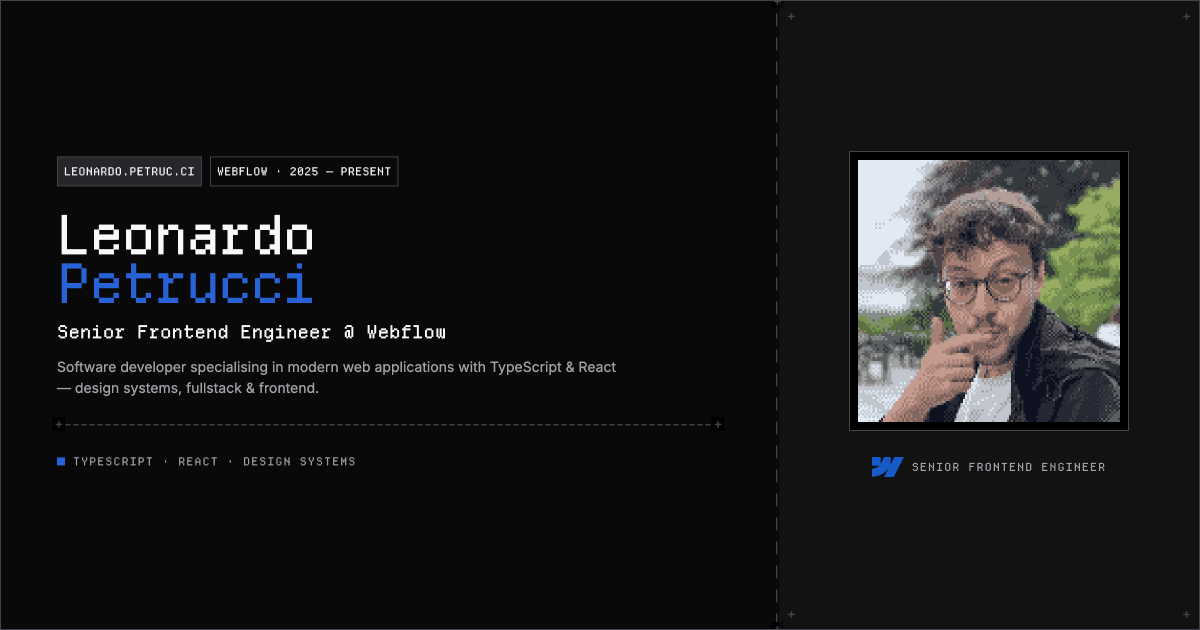
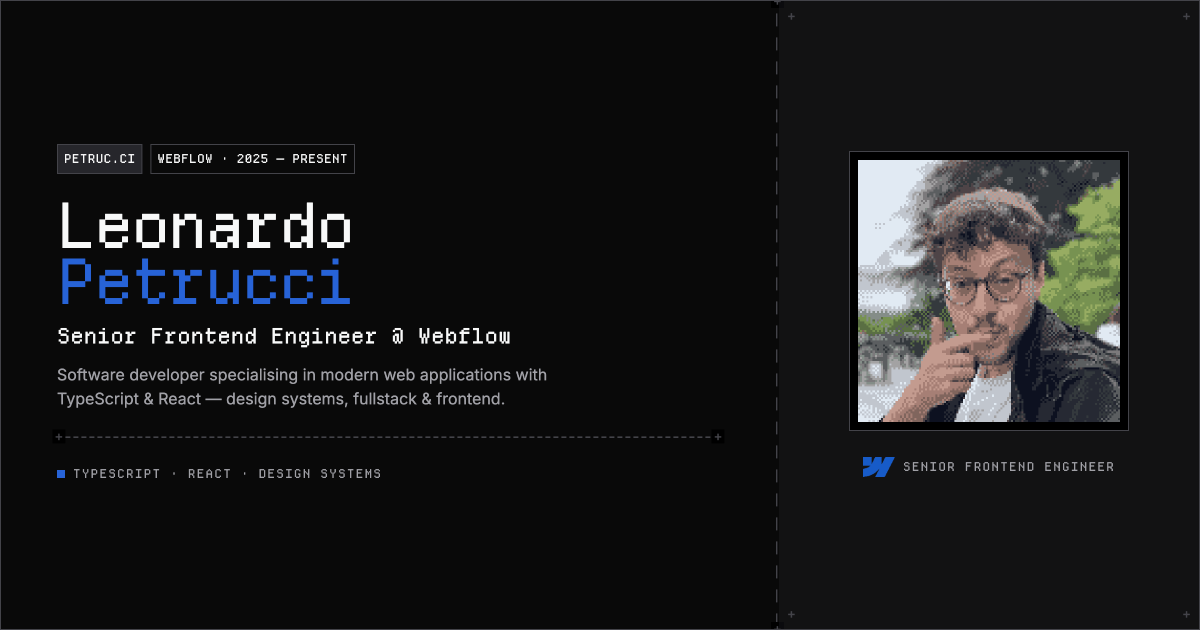
Update OpenGraph

diff --git a/src/routes/hero.tsx b/src/routes/hero.tsx
@@ -48,25 +48,25 @@ function RouteComponent() {
           <div className="flex-1 flex flex-col justify-center px-14 py-10 gap-6">
             {/* Top badge row */}
             <div className="flex items-center gap-2">
-              <Badge variant="default" className="text-[11px]">
+              <Badge variant="default" className="text-[12px]">
                 petruc.ci
               </Badge>
-              <Badge variant="outline" className="text-[11px]">
+              <Badge variant="outline" className="text-[12px]">
                 {CURRENT_JOB.company} · 2025 — Present
               </Badge>
             </div>
 
             {/* Name + Title */}
             <div className="flex flex-col gap-3">
-              <h1 className="font-departure text-[54px] leading-[0.9] tracking-[-0.04em] font-normal text-foreground">
+              <h1 className="font-departure text-[62px] leading-[0.9] tracking-[-0.04em] font-normal text-foreground">
                 Leonardo
                 <br />
                 <span className="text-accent">Petrucci</span>
               </h1>
-              <p className="font-departure text-[18px] leading-[1.4] text-foreground max-w-[560px]">
+              <p className="font-departure text-[21px] leading-[1.4] text-foreground max-w-[560px]">
                 {CURRENT_JOB.title}
               </p>
-              <p className="font-inter text-[14px] leading-[1.5] text-muted-foreground max-w-[560px]">
+              <p className="font-inter text-[16px] leading-[1.5] text-muted-foreground max-w-[560px]">
                 Software developer specialising in modern web applications with TypeScript &amp; React — design systems, fullstack &amp; frontend.
               </p>
             </div>
@@ -77,7 +77,7 @@ function RouteComponent() {
             <div className="flex items-center gap-3">
               <div className="flex items-center gap-2">
                 <span className="size-2 bg-accent inline-block" aria-hidden />
-                <span className="font-departure text-[11px] uppercase tracking-widest text-muted-foreground">
+                <span className="font-departure text-[12px] uppercase tracking-widest text-muted-foreground">
                   Typescript · React · Design Systems
                 </span>
               </div>
@@ -109,7 +109,7 @@ function RouteComponent() {
                 alt="Webflow"
                 className="h-5 w-auto object-contain opacity-80"
               />
-              <span className="font-departure text-[11px] uppercase tracking-widest text-muted-foreground">
+              <span className="font-departure text-[12px] uppercase tracking-widest text-muted-foreground">
                 Senior Frontend Engineer
               </span>
             </div>
